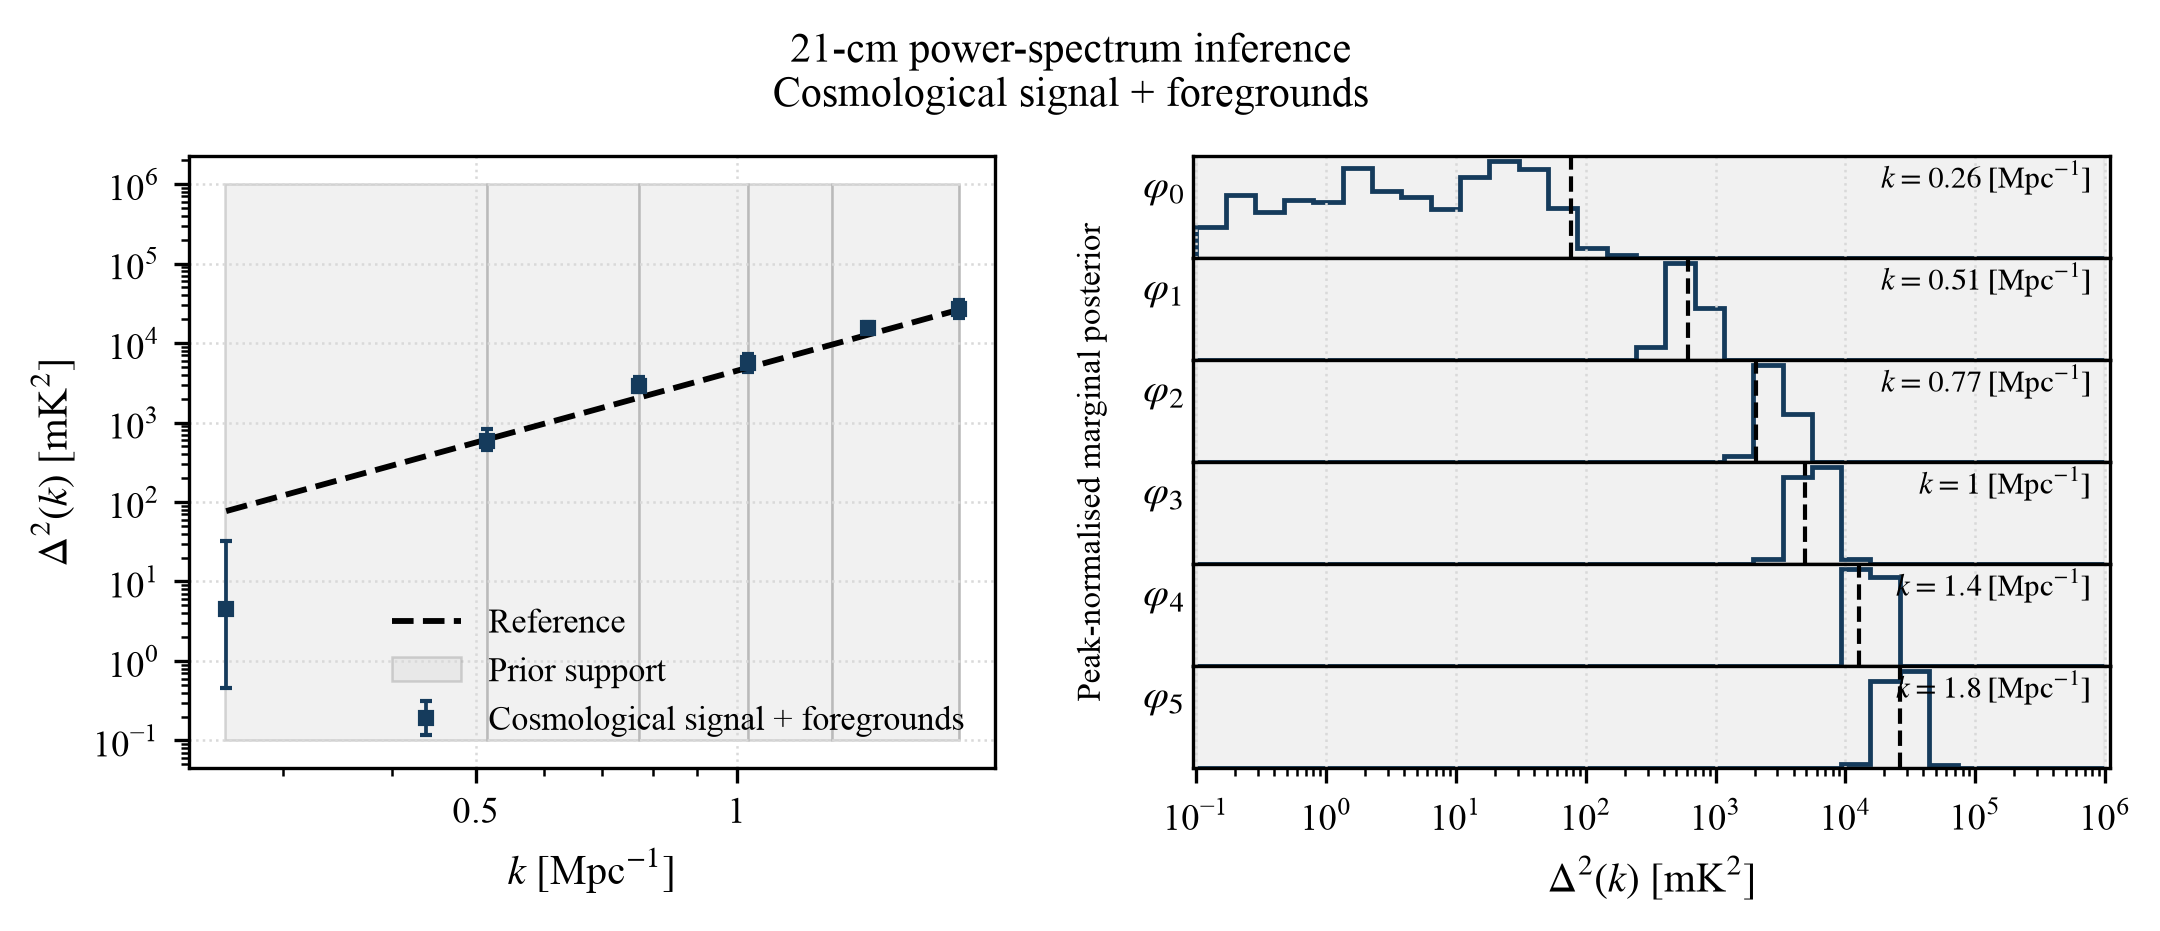
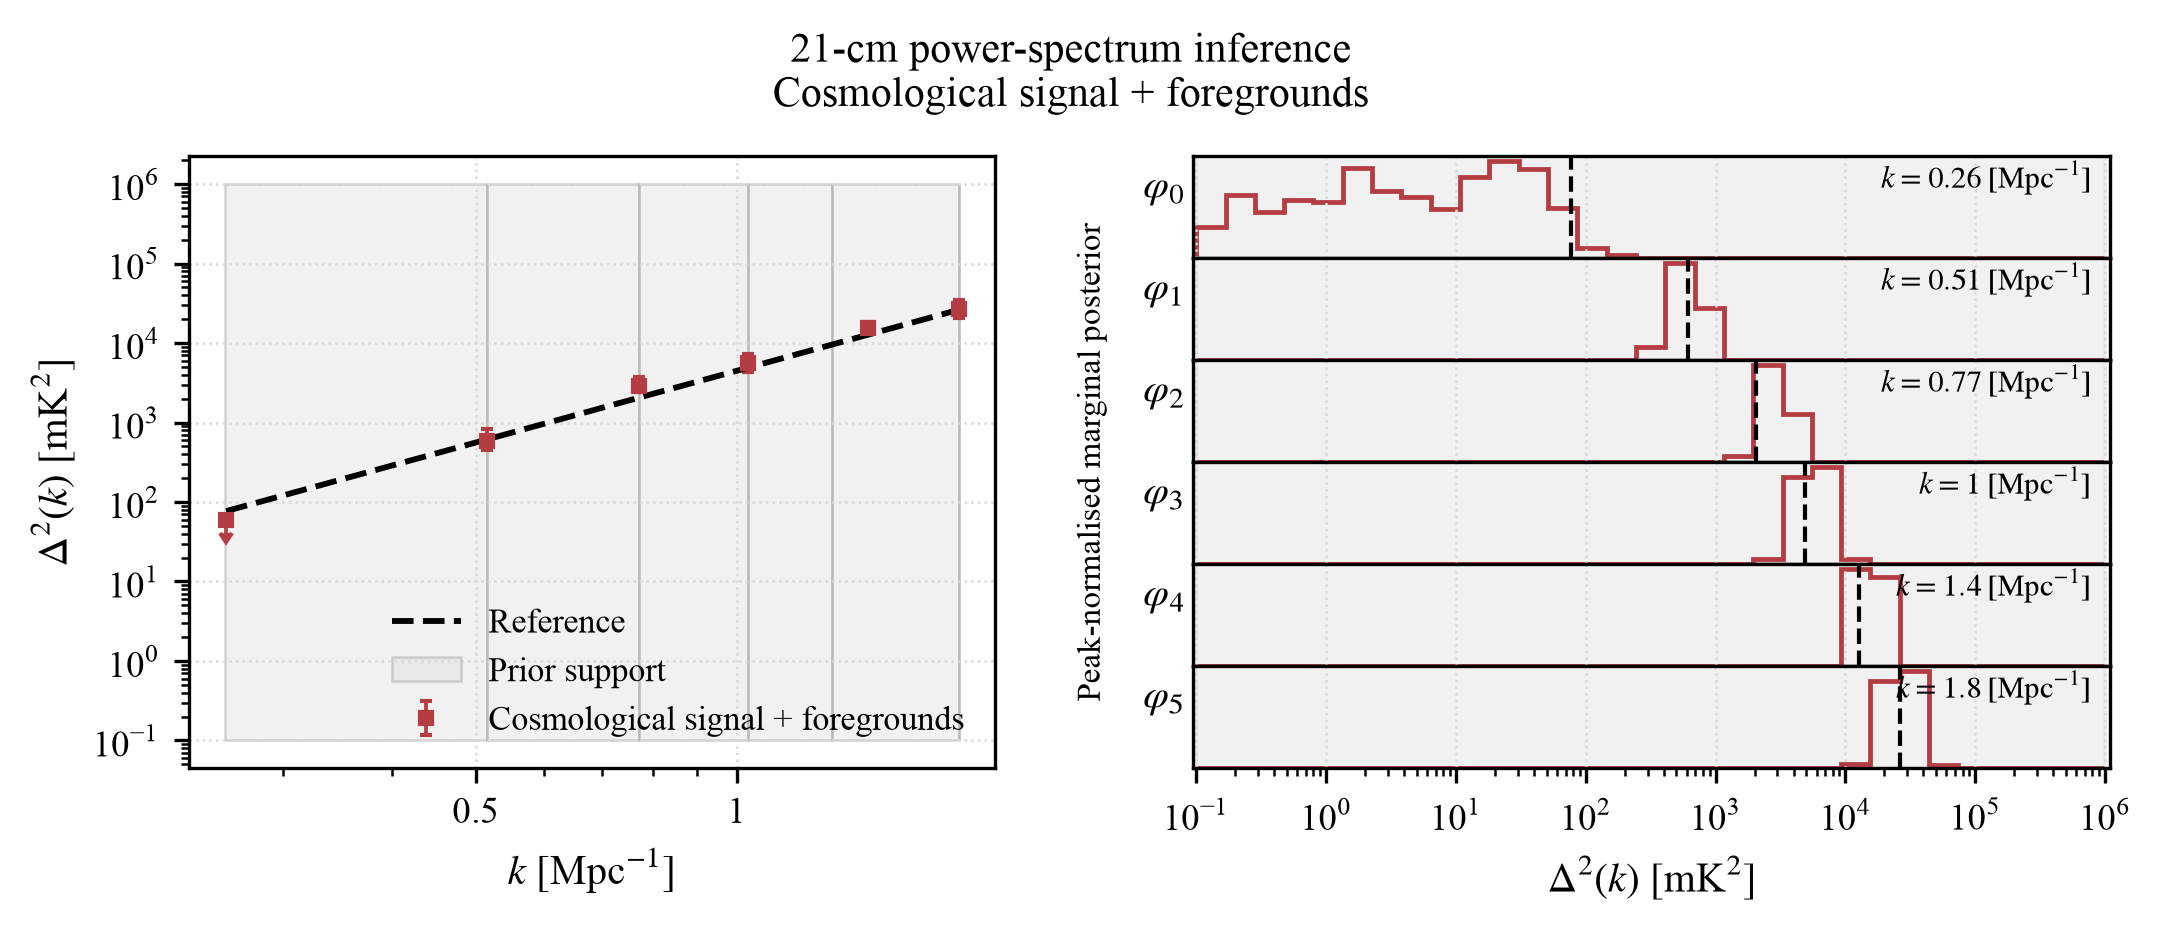
Use model-specific plot colours and expose upper-limit bins

diff --git a/bayeseor_jax/analyze/plotting.py b/bayeseor_jax/analyze/plotting.py
@@ -43,7 +43,8 @@ def plot_power_spectra(data, *, cred_interval=68, uplim_inds=None,
     plot_priors : bool, optional
         Shade the prior support, requiring prior bounds and physical bin edges.
     colors : sequence of colors, optional
-        One Matplotlib color per run; defaults to the publication palette.
+        One Matplotlib color per run. Defaults to blue for 21-cm-only models
+        and red for joint 21-cm + foreground models.
     ax : matplotlib.axes.Axes, optional
         Existing axes; otherwise create a new figure.
 
@@ -59,6 +60,8 @@ def plot_power_spectra(data, *, cred_interval=68, uplim_inds=None,
     """
     if colors is not None and len(colors) != data.Ndirs:
         raise ValueError("colors must contain one entry per run")
+    if colors is None:
+        colors = _default_colors(data)
     if ax is None:
         _, ax = plt.subplots(figsize=(3.5, 2.8), layout="constrained")
     offsets = 10.0**np.linspace(-.025, .025, data.Ndirs) if data.Ndirs > 1 else [1.]
@@ -67,7 +70,7 @@ def plot_power_spectra(data, *, cred_interval=68, uplim_inds=None,
     cycle = list(plt.rcParams["axes.prop_cycle"])
     for i, k in enumerate(data.k_vals):
         properties = cycle[i % len(cycle)]
-        color = colors[i] if colors is not None else properties["color"]
+        color = colors[i]
         marker = properties["marker"]
         plotted_k = k * offsets[i]
         upper = np.zeros(k.size, dtype=bool)
@@ -132,7 +135,8 @@ def plot_posteriors(data, *, bins=31, plot_priors=False, colors=None, axes=None,
     plot_priors : bool, optional
         Shade each run's prior support from args.json.
     colors : sequence of colors, optional
-        One Matplotlib color per run.
+        One Matplotlib color per run. Defaults to blue for 21-cm-only models
+        and red for joint 21-cm + foreground models.
     axes : sequence of matplotlib.axes.Axes, optional
         One existing axis per k bin; otherwise create a vertical stack.
     normalisation : {"peak", "density"}, optional
@@ -153,6 +157,8 @@ def plot_posteriors(data, *, bins=31, plot_priors=False, colors=None, axes=None,
         raise ValueError("bins must be a positive integer")
     if colors is not None and len(colors) != data.Ndirs:
         raise ValueError("colors must contain one entry per run")
+    if colors is None:
+        colors = _default_colors(data)
     count = data.k_vals[0].size
     if axes is None:
         fig, axes = plt.subplots(count, 1, figsize=(3.5, max(1.5, count * .283)),
@@ -163,7 +169,6 @@ def plot_posteriors(data, *, bins=31, plot_priors=False, colors=None, axes=None,
         raise ValueError("Supply one axis per k bin, all in the same figure")
     priors = [_prior_bounds(data, i) for i in range(data.Ndirs)] if plot_priors else []
     all_edges = []
-    cycle = list(plt.rcParams["axes.prop_cycle"])
     for column, ax in enumerate(axes):
         # Shared edges make histogram heights comparable between different runs.
         support = np.concatenate([s[w > 0, column] for s, w in zip(data.samples, data.weights)])
@@ -173,7 +178,7 @@ def plot_posteriors(data, *, bins=31, plot_priors=False, colors=None, axes=None,
         all_edges.extend([edges[0], edges[-1]])
         shaded = []
         for i, samples in enumerate(data.samples):
-            color = colors[i] if colors is not None else cycle[i % len(cycle)]["color"]
+            color = colors[i]
             density, _ = np.histogram(samples[:, column], bins=edges, weights=data.weights[i], density=True)
             height = density / density.max() if normalisation == "peak" else density
             ax.stairs(height, 10.0**edges, color=color, linewidth=1.15, label=data.labels[i])
@@ -222,7 +227,8 @@ def plot_power_spectra_and_posteriors(data, *, cred_interval=68, uplim_inds=None
     plot_priors : bool, optional
         Shade the stored prior bounds in both panels.
     colors : sequence of colors, optional
-        One color per run, shared by both panels.
+        One color per run, shared by both panels. Defaults to blue for
+        21-cm-only models and red for joint 21-cm + foreground models.
     bins : int, optional
         Number of logarithmic histogram bins per marginal posterior.
     normalisation : {"peak", "density"}, optional
@@ -257,7 +263,7 @@ def plot_power_spectra_and_posteriors(data, *, cred_interval=68, uplim_inds=None
 
 @style.context(_STYLE_PATH)
 def save_analysis(sampler_dir, *, output_dir, label="BayesEoR", metadata_dir=None,
-                  expected_ps=None):
+                  expected_ps=None, uplim_inds=None):
     """Save weighted posterior summaries and the combined analysis PNG.
 
     Parameters
@@ -275,6 +281,9 @@ def save_analysis(sampler_dir, *, output_dir, label="BayesEoR", metadata_dir=Non
     expected_ps : float or array-like, optional
         Reference dimensional spectrum in mK² Mpc³, displayed without changing
         posterior constraints. Omit for observations without a known reference.
+    uplim_inds : sequence of bool, optional
+        True for bins displayed as 95% upper limits instead of central credible
+        intervals. The marginal posterior panels and summaries remain unchanged.
 
     Returns
     -------
@@ -297,10 +306,17 @@ def save_analysis(sampler_dir, *, output_dir, label="BayesEoR", metadata_dir=Non
         "upper_limits": data.uplims[0].tolist(),
     }
     (output_dir / "posterior_summary.json").write_text(json.dumps(summary, indent=2) + "\n")
-    fig, _ = plot_power_spectra_and_posteriors(data, plot_priors=True)
+    fig, _ = plot_power_spectra_and_posteriors(data, plot_priors=True, uplim_inds=uplim_inds)
     try:
         fig.suptitle(f"21-cm power-spectrum inference\n{label}", fontsize=10, y=1.03, va="bottom")
         fig.savefig(output_dir / "power_spectrum_and_posteriors.png", dpi=300, bbox_inches="tight")
     finally:
         plt.close(fig)
     return summary
+
+
+def _default_colors(data):
+    """Select the style's blue/red entries from each run's saved model type."""
+    palette = plt.rcParams["axes.prop_cycle"].by_key()["color"]
+    return [palette[{"eor": 0, "eor+fg": 1}.get(args.get("model"), i) % len(palette)]
+            for i, args in enumerate(data.args)]

diff --git a/tests/test_analysis.py b/tests/test_analysis.py
@@ -46,6 +46,21 @@ def test_statistics_and_units(tmp_path):
     np.testing.assert_allclose(dmps_to_ps(data.expected_spectra[0], data.k_vals[0]), 10.)
 
 
+@pytest.mark.parametrize("model, expected", [("eor", "#2468a2"), ("eor+fg", "#b43c43")])
+@pytest.mark.parametrize("override", [None, "#228833"])
+def test_model_colors_match_in_both_panels(tmp_path, model, expected, override):
+    from matplotlib.colors import to_rgba
+
+    data = DataContainer([write_run(tmp_path)])
+    data.args[0]["model"] = model
+    colors = None if override is None else [override]
+    _, (power, posteriors) = plot_power_spectra_and_posteriors(data, colors=colors)
+    expected = to_rgba(override or expected)
+    assert to_rgba(power.containers[0].lines[0].get_color()) == expected
+    for ax in posteriors:
+        assert to_rgba(ax.patches[0].get_edgecolor()) == expected
+
+
 def test_zero_weight_points_do_not_change_quantiles(tmp_path):
     path = write_run(tmp_path, k=(.1,), chain=[[0., 1., -5.], [.25, 1., 0.], [.75, 1., 1.]])
     data = DataContainer([path])
@@ -201,6 +216,10 @@ def test_pipeline_writes_summaries_and_titled_figures(tmp_path, monkeypatch):
     titles = []
     original_savefig = Figure.savefig
     def capture_savefig(fig, *args, **kwargs):
+        power = fig.axes[0]
+        assert len(power.containers) == 2
+        assert power.containers[1].lines[0].get_ydata()[0] == pytest.approx(
+            np.interp(.95, [.2, .5, 1.], [1., np.sqrt(10.), 10.]))
         fig.canvas.draw()
         renderer = fig.canvas.get_renderer()
         title_box = fig._suptitle.get_window_extent(renderer)
@@ -210,7 +229,8 @@ def test_pipeline_writes_summaries_and_titled_figures(tmp_path, monkeypatch):
     monkeypatch.setattr(Figure, "savefig", capture_savefig)
     sampler = write_run(tmp_path / "nested_sampling")
     before = (sampler / 'data-.txt').read_bytes()
-    summary = save_analysis(sampler, output_dir=tmp_path / "plots", label="21-cm only")
+    summary = save_analysis(sampler, output_dir=tmp_path / "plots", label="21-cm only",
+                            uplim_inds=[True, False])
     np.testing.assert_allclose(summary["medians"], np.sqrt(10.))
     assert (tmp_path / "plots" / "posterior_summary.json").exists()
     assert [p.name for p in (tmp_path / "plots").glob("*.png")] == ["power_spectrum_and_posteriors.png"]
@@ -296,7 +316,7 @@ def test_publication_layout_and_peak_normalisation(tmp_path):
 def test_packaged_style_preserves_run_colours_and_markers(tmp_path):
     data = DataContainer([write_run(tmp_path / str(i)) for i in range(6)])
     fig, (power, axes) = plot_power_spectra_and_posteriors(data)
-    colours = ["#153b5c", "#2b83ba", "#6f5596", "#d6604d", "#8b1e2d", "#153b5c"]
+    colours = ["#2468a2", "#b43c43", "#6f5596", "#2b83ba", "#8b1e2d", "#2468a2"]
     markers = ["s", "^", "D", "v", "P", "s"]
     for container, colour, marker in zip(power.containers, colours, markers):
         line = container.lines[0]

diff --git a/tests/test_laptop_examples.py b/tests/test_laptop_examples.py
@@ -139,6 +139,7 @@ def test_example_orchestrates_pipeline_and_preserves_saved_results(name, tmp_pat
     assert steps[1][1]['center_likelihood'] is True
     assert steps[2][1]['output_dir'] == Path(f"examples/{name}/plots").resolve()
     assert steps[2][1]["expected_ps"] == pytest.approx(88429.76350405652)
+    assert steps[2][1].get("uplim_inds") == ([True] + [False]*5 if name == "eor_fgs" else None)
     np.testing.assert_array_equal(np.load(tmp_path/'data/visibilities_noisy.npy'), data+noise)
     np.testing.assert_array_equal(np.load(tmp_path/'data/noise.npy'), noise)
     with pytest.raises(FileExistsError, match='Sampler output already exists'):

diff --git a/examples/eor_fgs/run.py b/examples/eor_fgs/run.py
@@ -94,6 +94,7 @@ def run_example(
         label=analysis_label,
         metadata_dir=out_dir,
         expected_ps=np.load(Path(__file__).parent / "data/injected_power_spectrum.npy", allow_pickle=False).item(),
+        uplim_inds=[True, False, False, False, False, False],
     )
     return setup_result, summary, analysis_summary
 
